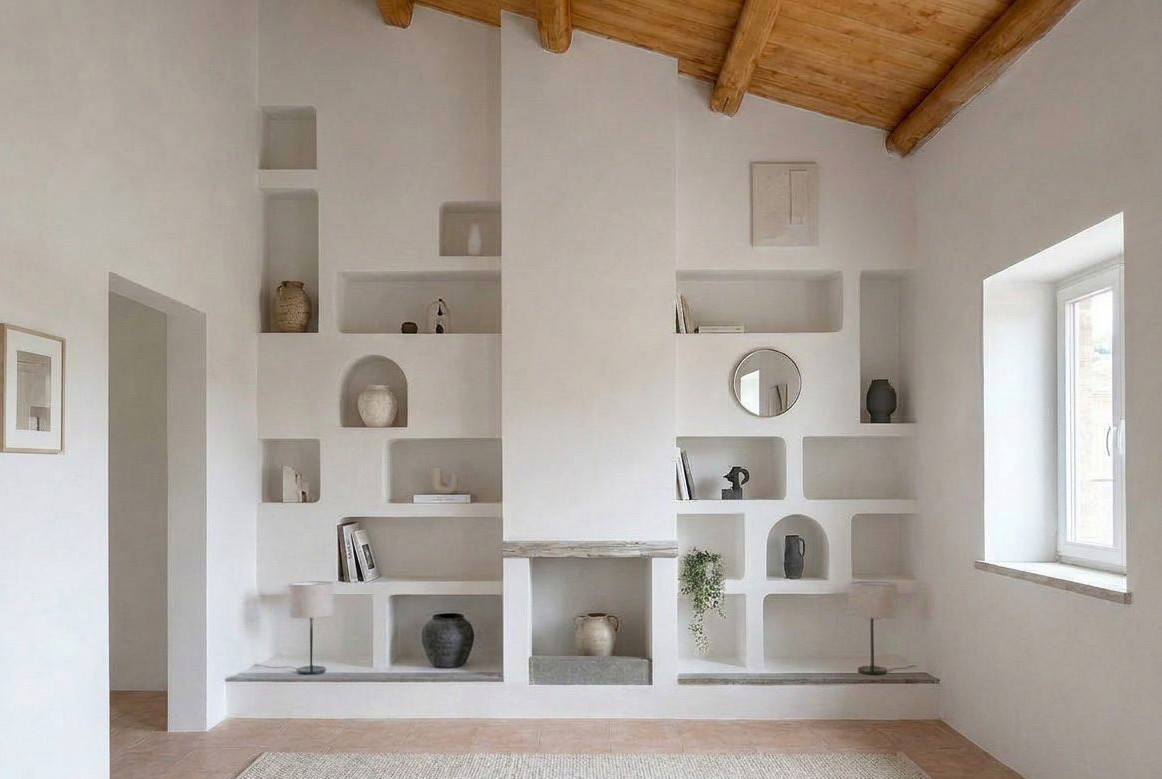
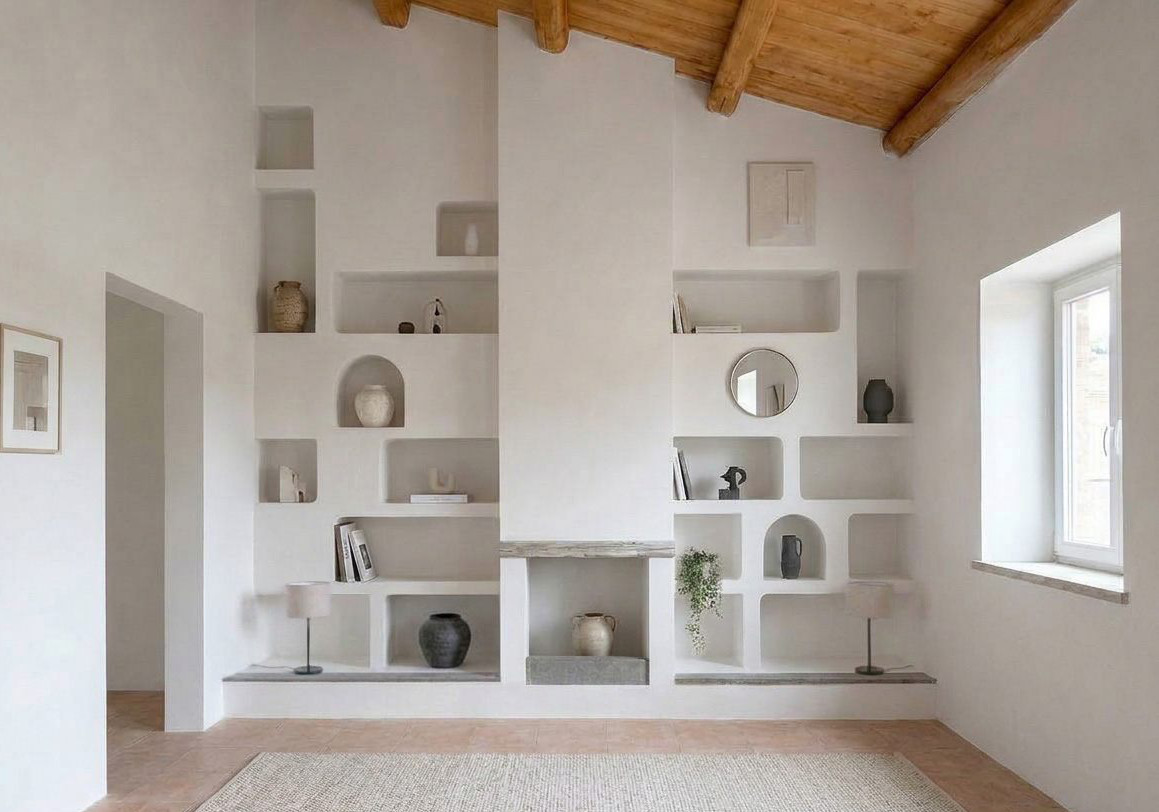
Casa E. wall: crop lower so the photomontage keeps a hint of the rug; cache-busting image links

diff --git a/index.html b/index.html
@@ -129,9 +129,9 @@
           <a class="btn" href="progetti/#parete">scopri il progetto</a>
         </div>
         <figure class="compare-wrap">
-          <div class="compare" style="--ratio: 1162 / 779">
-            <img src="assets/img/progetti/parete-stato-di-fatto.jpg" alt="Stato di fatto: parete in muratura da recuperare sotto un soffitto in legno" width="1400" height="939" loading="lazy">
-            <img class="after" src="assets/img/progetti/parete-fotomontaggio.jpg" alt="Fotomontaggio di progetto: la stessa parete con nicchie e mensole" width="1162" height="779" loading="lazy">
+          <div class="compare" style="--ratio: 1159 / 812">
+            <img src="assets/img/progetti/parete-stato-di-fatto.jpg?v=2" alt="Stato di fatto: parete in muratura da recuperare sotto un soffitto in legno" width="1400" height="981" loading="lazy">
+            <img class="after" src="assets/img/progetti/parete-fotomontaggio.jpg?v=2" alt="Fotomontaggio di progetto: la stessa parete con nicchie e mensole" width="1159" height="812" loading="lazy">
             <span class="compare-line" aria-hidden="true"></span>
             <span class="compare-tag compare-tag--before" aria-hidden="true">prima</span>
             <span class="compare-tag compare-tag--after" aria-hidden="true">progetto</span>

diff --git a/progetti/index.html b/progetti/index.html
@@ -70,9 +70,9 @@
       </header>
       <div class="grid media">
         <figure class="compare-wrap">
-          <div class="compare" style="--ratio: 1162 / 779">
-            <img src="../assets/img/progetti/parete-stato-di-fatto.jpg" alt="Stato di fatto: parete in muratura da recuperare sotto un soffitto in legno" width="1400" height="939" loading="lazy">
-            <img class="after" src="../assets/img/progetti/parete-fotomontaggio.jpg" alt="Fotomontaggio di progetto: la stessa parete con nicchie e mensole" width="1162" height="779" loading="lazy">
+          <div class="compare" style="--ratio: 1159 / 812">
+            <img src="../assets/img/progetti/parete-stato-di-fatto.jpg?v=2" alt="Stato di fatto: parete in muratura da recuperare sotto un soffitto in legno" width="1400" height="981" loading="lazy">
+            <img class="after" src="../assets/img/progetti/parete-fotomontaggio.jpg?v=2" alt="Fotomontaggio di progetto: la stessa parete con nicchie e mensole" width="1159" height="812" loading="lazy">
             <span class="compare-line" aria-hidden="true"></span>
             <span class="compare-tag compare-tag--before" aria-hidden="true">prima</span>
             <span class="compare-tag compare-tag--after" aria-hidden="true">progetto</span>

diff --git a/README.md b/README.md
@@ -64,8 +64,9 @@ The very first message sent from the live site triggers an **activation email to
   If the "before" photo was taken at a slant, straighten it first so the two line up: `_strumenti/raddrizza.py`
   (outside the site folder) does it for the Casa E. wall, from landmarks measured with `_strumenti/lente.py`;
   `_strumenti/affina.py` then fine-tunes it by matching the edges of the two pictures.
-- **Changed a picture?** Save it under a new file name (and update the page), otherwise browsers that
-  visited the site before may keep showing the old one.
+- **Changed a picture?** Save it under a new file name, or add/raise a number at the end of its address in the
+  page (`parete-fotomontaggio.jpg?v=2` → `?v=3`); otherwise browsers that visited the site before may keep
+  showing the old one.
 - **Header & footer** are repeated in the five pages — change all five.
 - **Colours, spacing, fonts**: variables at the top of `assets/css/style.css`.
 - **After changing `style.css` or `main.js`**: raise the number in `style.css?v=5` / `main.js?v=5` in every page
